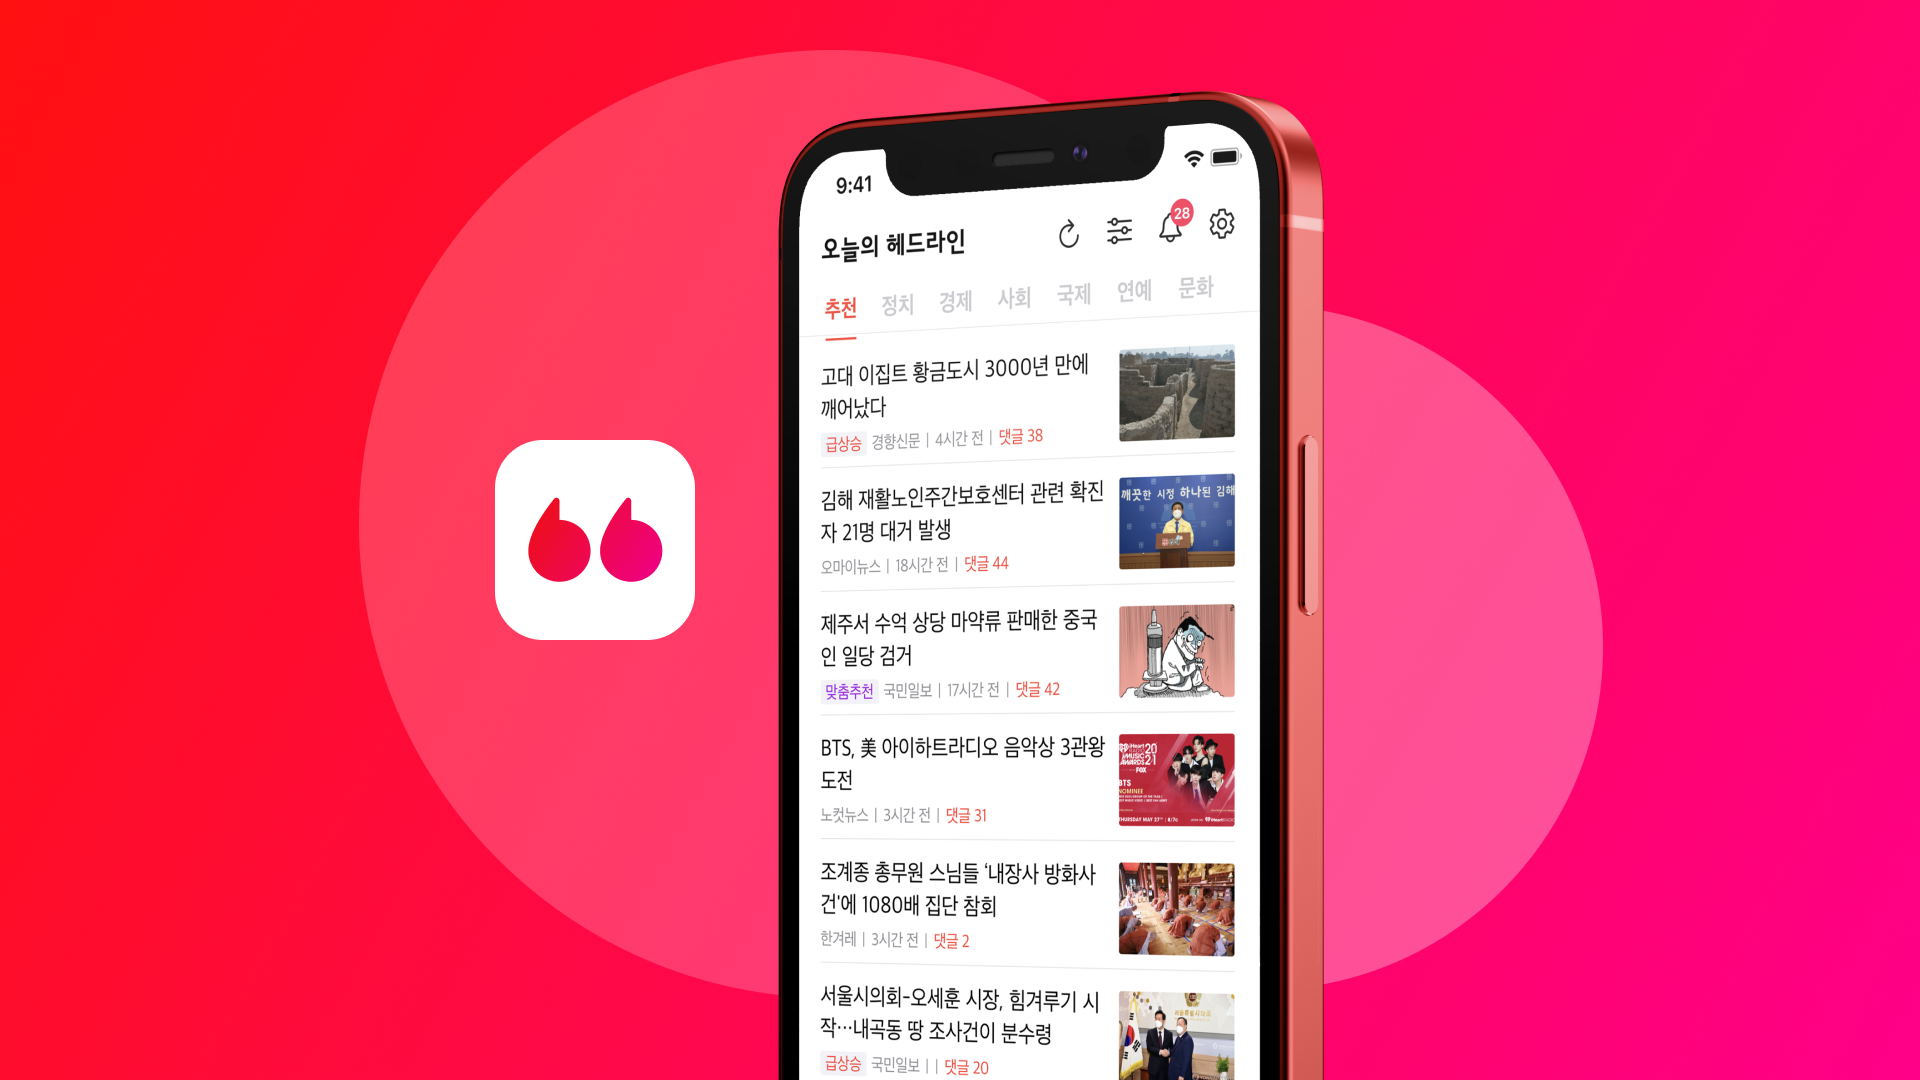
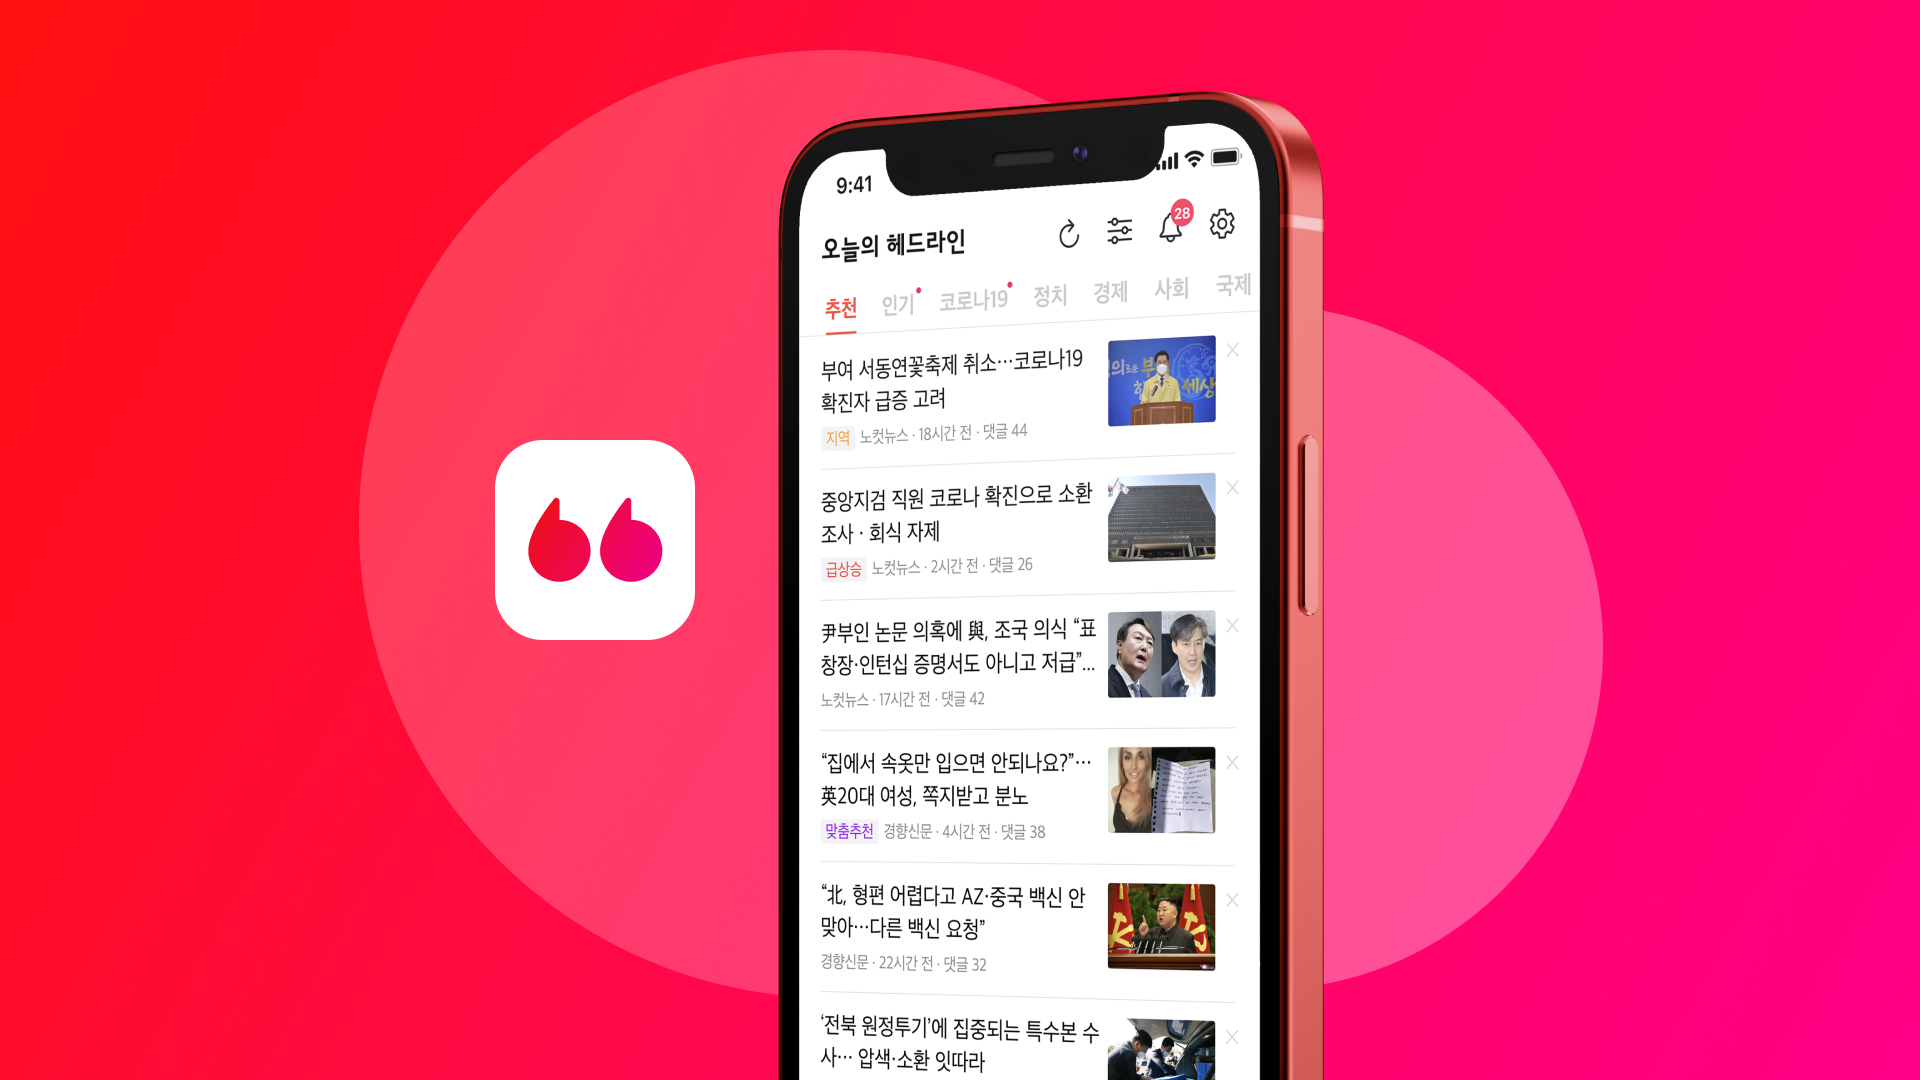
텍스트 추가

Changed region(s): [[0.4062, 0.275, 0.6562, 1.0], [0.5312, 0.2444, 0.6562, 0.275], [0.4688, 0.2139, 0.5, 0.2444]]

diff --git a/_projects/2020-08-01-headline.md b/_projects/2020-08-01-headline.md
@@ -8,40 +8,50 @@ accent_color: '#FF0066'
 gallery_images:
   - headline.png
 ---
-* **Team**: 1 engineer
-* **Duration**: 1 months
+* **Team**: 1 PO, 4 engineers
+* **Duration**: 1 year
 * **Role**: Product Designer (100%)
 * **Areas of Focus**: User Research, Visual Design, Prototyping
 
-#### Overview
-뉴스 서비스에서 '읽는 환경'은 중요합니다. 읽는 환경이 불편하면 뉴스를 오래 볼 수가 없고, 이는 체류시간 감소와 리텐션 저하로 이어질 수 있기 때문입니다.
 
-오늘의 헤드라인의 사용자들도 자신에게 맞는 편안한 방식을 선택하고 싶은 니즈를 갖고 있었기에 지속적으로 '글자 크기'에 대한 피드백을 보내주었습니다. 기사의 글자 크기를 변경하는 기능이 있으면 사용자가 본인에게 맞는 환경을 선택할 수 있어 뉴스를 더 편하게 볼 수 있게 됩니다.
+#### 뉴스 목록
 
-2021년 봄에 이 기능을 추가했고, 1명의 엔지니어와 함께 작업했습니다.
+기본 뉴스 화면입니다. 첫 화면에 서비스의 가장 핵심인 '추천 뉴스'를 배치했습니다. 
 
-#### Problem
-- (기존) OS 폰트 사이즈 설정에 따라서만 변함
-    - 다른 앱에서는 괜찮았는데 오늘의헤드라인에서만 글자 크기가 너무 크거나 작게 느껴지는 경우 불편함
-    - RN 구현으로 Android에서 더 크게 보이는 현상이 있어 동일한 경험을 제공하지 못함
-- 총 3단계여서 제한적임. 더 크거나 작은 단계를 원하는 니즈가 있음
-- 유저의 연령층이 높아 개선된 accessibility 필요
 
-#### Goal
-- User : 기사를 더 편하게 읽는다.
-- Business : 중기 리텐션을 높인다.
-- Product : 읽기 환경을 개선하고 accessibility를 높인다.
+#### 추천 이유 설명
 
-폰트 사이즈를 여러 단계로 대응하는 것은 생각보다 복잡할 수 있습니다. 단계별로 모든 종류의 텍스트 스타일을 지정해주어야 하는 것은 물론, 앞으로 새로운 기능이 추가될 때마다 모든 단계의 사이즈를 고려한 컴포넌트를 사용해야 하기 때문입니다. 
+서비스를 처음 쓰는 사용자는 뉴스 목록이 추천의 결과라는 사실을 알기 어려웠기 때문에, 서비스의 핵심 가치를 느끼지 못한 채 이탈하는 경우가 많았습니다. 팀 내 AI 엔지니어와의 [스터디](https://hyejinni.github.io/blog/ai-ux)를 통해, 추천의 이유를 사용자에게 설명하는 게 도움이 된다는 점을 배웠고, 이를 적용했습니다. 
 
-오늘의 헤드라인은 React Native로 구현되어 그동안은 안드로이드와 iOS에서 같은 설정값의 폰트를 사용하고 있었는데요. 그러다보니 안드로이드 기기에서 폰트가 더 크게 나오는 문제가 있었습니다. 일관된 서비스를 제공하는 것이 중요하다고 생각해 실제 모바일 기기로 봤을 때 글자 크기가 비슷하도록 조정하는 작업도 같이 진행했습니다.
+공공의 인기를 반영한 '급상승' 뱃지와 사용자의 시청 기록을 기반으로 한 '맞춤 추천' 그리고 사용자의 위치를 기반으로 한 '지역' 뱃지를 추가했습니다. 이 개선 이후 서비스의 churn rate이 낮아졌을 뿐 아니라, 전체적인 ctr이 11% 증가하는 효과를 얻을 수 있었습니다.
 
-#### Research
 
-#### How it works
-##### News List
-##### Comment
-##### Profile
-##### Viewer Setting
-#### Result
+#### 실시간 인기 뉴스
+
+지금 가장 활발히 이슈가 되는 요소들을 사용자에게 전달하는 것
+
+
+
+#### 댓글
+
+
+
+
+#### 푸시 알림
+
+푸시는 가장 큰 리텐션 레버라는 점을 발견했습니다.
+
+
+#### 읽기 환경 설정
+
+
+
+#### 비관심 피드백
+
+
+
+#### 검색 (진행중)
+
+
+
 
